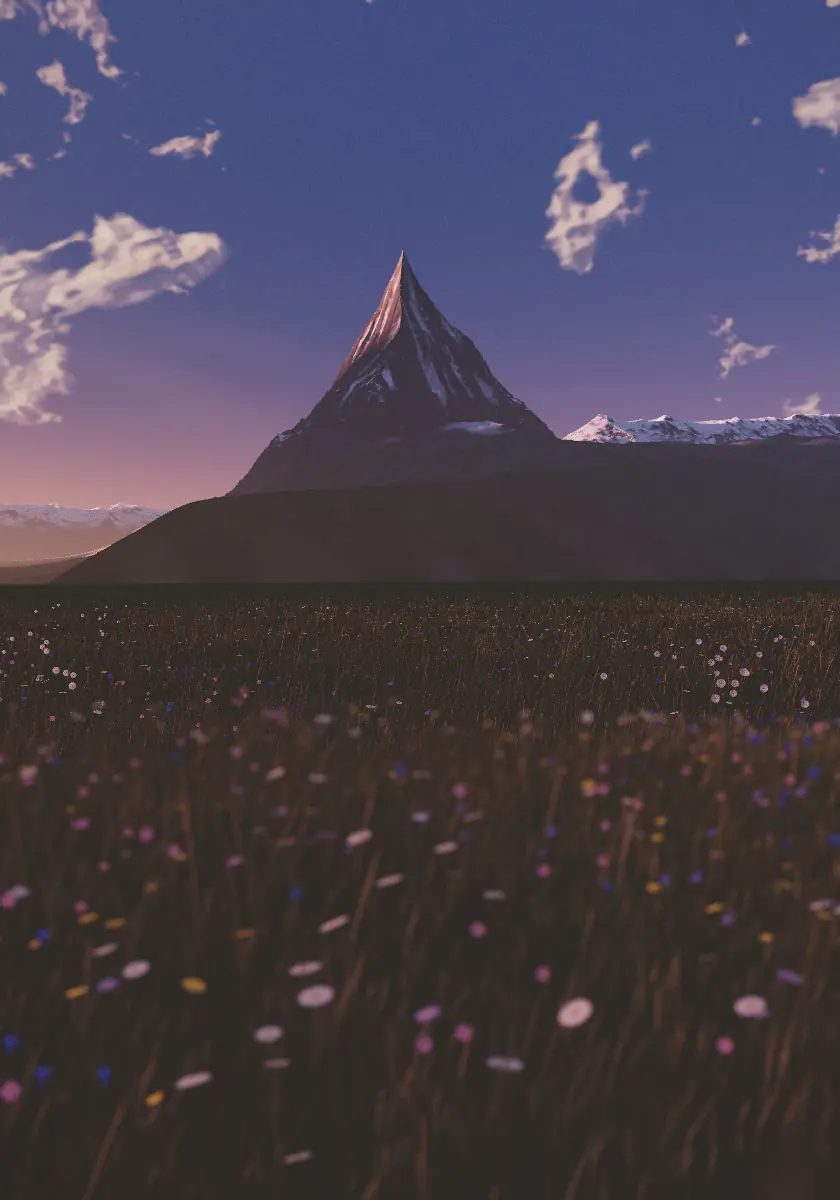
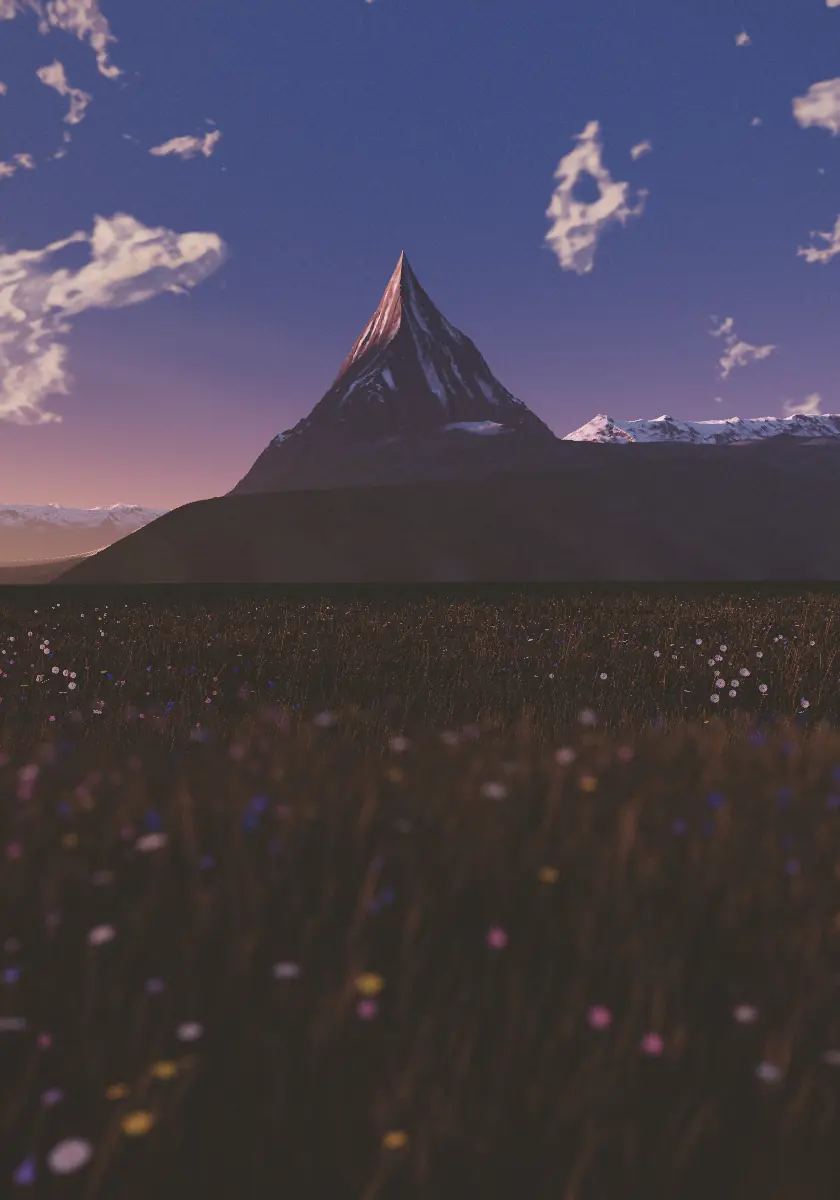
on a tall frame the lower meadow is the soft strokes and few flowers of a wide frame's foreground, the sward kept to the middle distance, the floor's shade lighter

diff --git a/style.css b/style.css
@@ -31,11 +31,11 @@
         rgba(0, 0, 0, 0.028) calc(100% - var(--fade) * 0.1),
         transparent);
[9 lines of base64/hex data omitted]
     --glimpse: var(--glimpse-day-wide);
     --poster: url(/stills/day-wide.webp);
     transition-property: --paper, --ink, --quiet, --underline, --accent, --wash, --sky;

diff --git a/sky.js b/sky.js
@@ -816,8 +816,8 @@ vec3 light(Look L, vec3 p, vec3 n, vec3 rd, float t, vec3 alb, float snow, float
   if (meadow) direct += L.sunc * sh * line * 0.35 * pow(max(dot(rd, L.sun), 0.0), 3.0);
   vec3 amb = L.amb * ao * (0.55 + 0.45 * n.y) + L.bnc * ao * (0.5 - 0.5 * n.y);
   /* the floor of the sward lies in the shade of the blades over it */
-  direct *= 1.0 - 0.8 * deep;
-  amb *= 1.0 - 0.5 * deep;
+  direct *= 1.0 - 0.5 * deep;
+  amb *= 1.0 - 0.3 * deep;
   vec3 col = alb * (direct + amb);
   vec3 hv = normalize(L.sun - rd);
   col += snow * L.sunc * sh * line * pow(max(dot(n, hv), 0.0), 24.0) * 0.08;
@@ -2006,12 +2006,14 @@ function buildMeadow(w, h) {
   /* a lying eye sees the tussocks close over one another; a raised eye
      sees the ground between them, so a tall frame grows the low sward
      there too: short blades scattered over the meadow it looks down
-     on, fewer with distance as the tussocks close, and none past ten
-     metres */
+     on, fewer with distance as the tussocks close, none past ten
+     metres, and fewer again close by, where the lower frame should
+     stay the soft strokes of the tussocks' own blades, as it is on a
+     wide frame, and not a turf */
   var ns = Math.round(LIFT * 10 * 10 * TANG * 700);
   for (i = 0; i < ns; i++) {
     z = 10 * Math.sqrt(rnd());
-    if (z < NEAR_Z || rnd() > Math.min(1, 3 / z) * Math.min(1, (10 - z) / 4)) continue;
+    if (z < NEAR_Z || rnd() > Math.min(1, 3 / z, (10 - z) / 4, (z - 0.4) / 2.6)) continue;
     p = place(z, rnd() * 2 - 1);
     h = 0.04 + 0.08 * rnd();
     var sw = [p[0], p[1], h, 0.003 + 0.004 * rnd(), rnd() * Math.PI * 2, 0.05 + 0.25 * rnd(), rnd(), rnd(),
@@ -2023,10 +2025,11 @@ function buildMeadow(w, h) {
   /* and the flowers of that ground: the drifts above begin about where
      a lying eye's wash of near blades ends, but a tall frame's lower
      half is this meadow at arm's length, seen from above, so it is
-     flowered too, in small drifts of one kind that thin with distance:
-     the frame holds only a couple of metres of ground across its lower
-     third, and each of them should carry its flowers */
-  var nk = Math.round(LIFT * 4.5 * 4.5 * TANG * 9);
+     flowered too, as a wide frame's foreground is, in small drifts of
+     one kind that thin with distance: the frame holds only a couple of
+     metres of ground across its lower third, and each of them should
+     carry its few flowers */
+  var nk = Math.round(LIFT * 4.5 * 4.5 * TANG * 3.5);
   for (i = 0; i < nk; i++) {
     z = 1.1 * Math.pow(4.5 / 1.1, rnd());
     var ku = rnd() * 2 - 1, kk = pick(), kn = 2 + Math.floor(rnd() * 4);
@@ -2893,11 +2896,10 @@ function frameTargets(cw, ch) {
   nearT = target(nw, nh, [CFMT], true);
   midB = target(mw, mh, [CFMT], false);
   nearB = target(nw, nh, [CFMT], false);
-  /* the softness is sized to the lens, so the wide lens of a tall frame
-     blurs no more of a blade than the narrow one of a wide frame */
-  var ang = 36 * DEG / FOVY;
-  RN = 0.04 * ch * ang * ns;
-  RM = 0.0055 * ch * ang * ms;
+  /* the softness is sized to the frame: the nearest grass is a wash,
+     the middle grass soft strokes, on every frame alike */
+  RN = 0.04 * ch * ns;
+  RM = 0.0055 * ch * ms;
 }
 
 /* the last frame of the old size, kept on a plain canvas under the new
